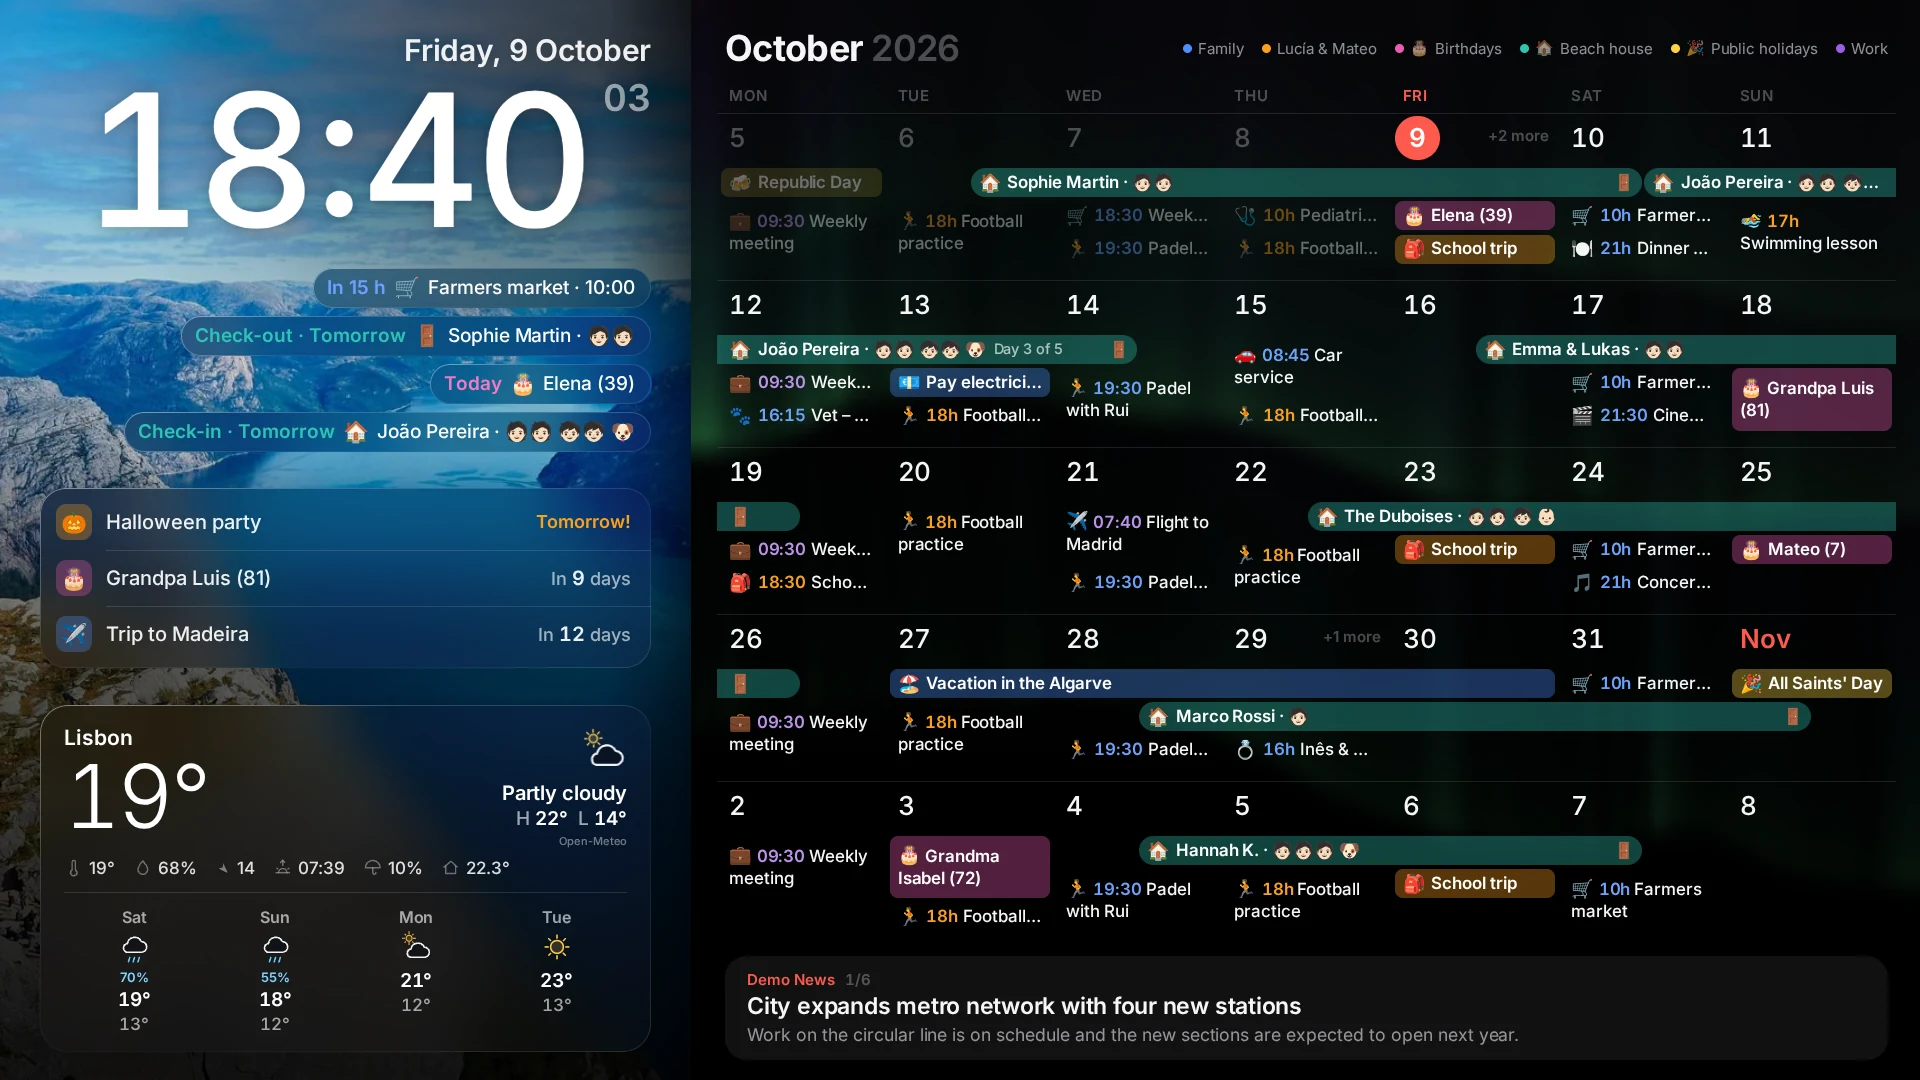
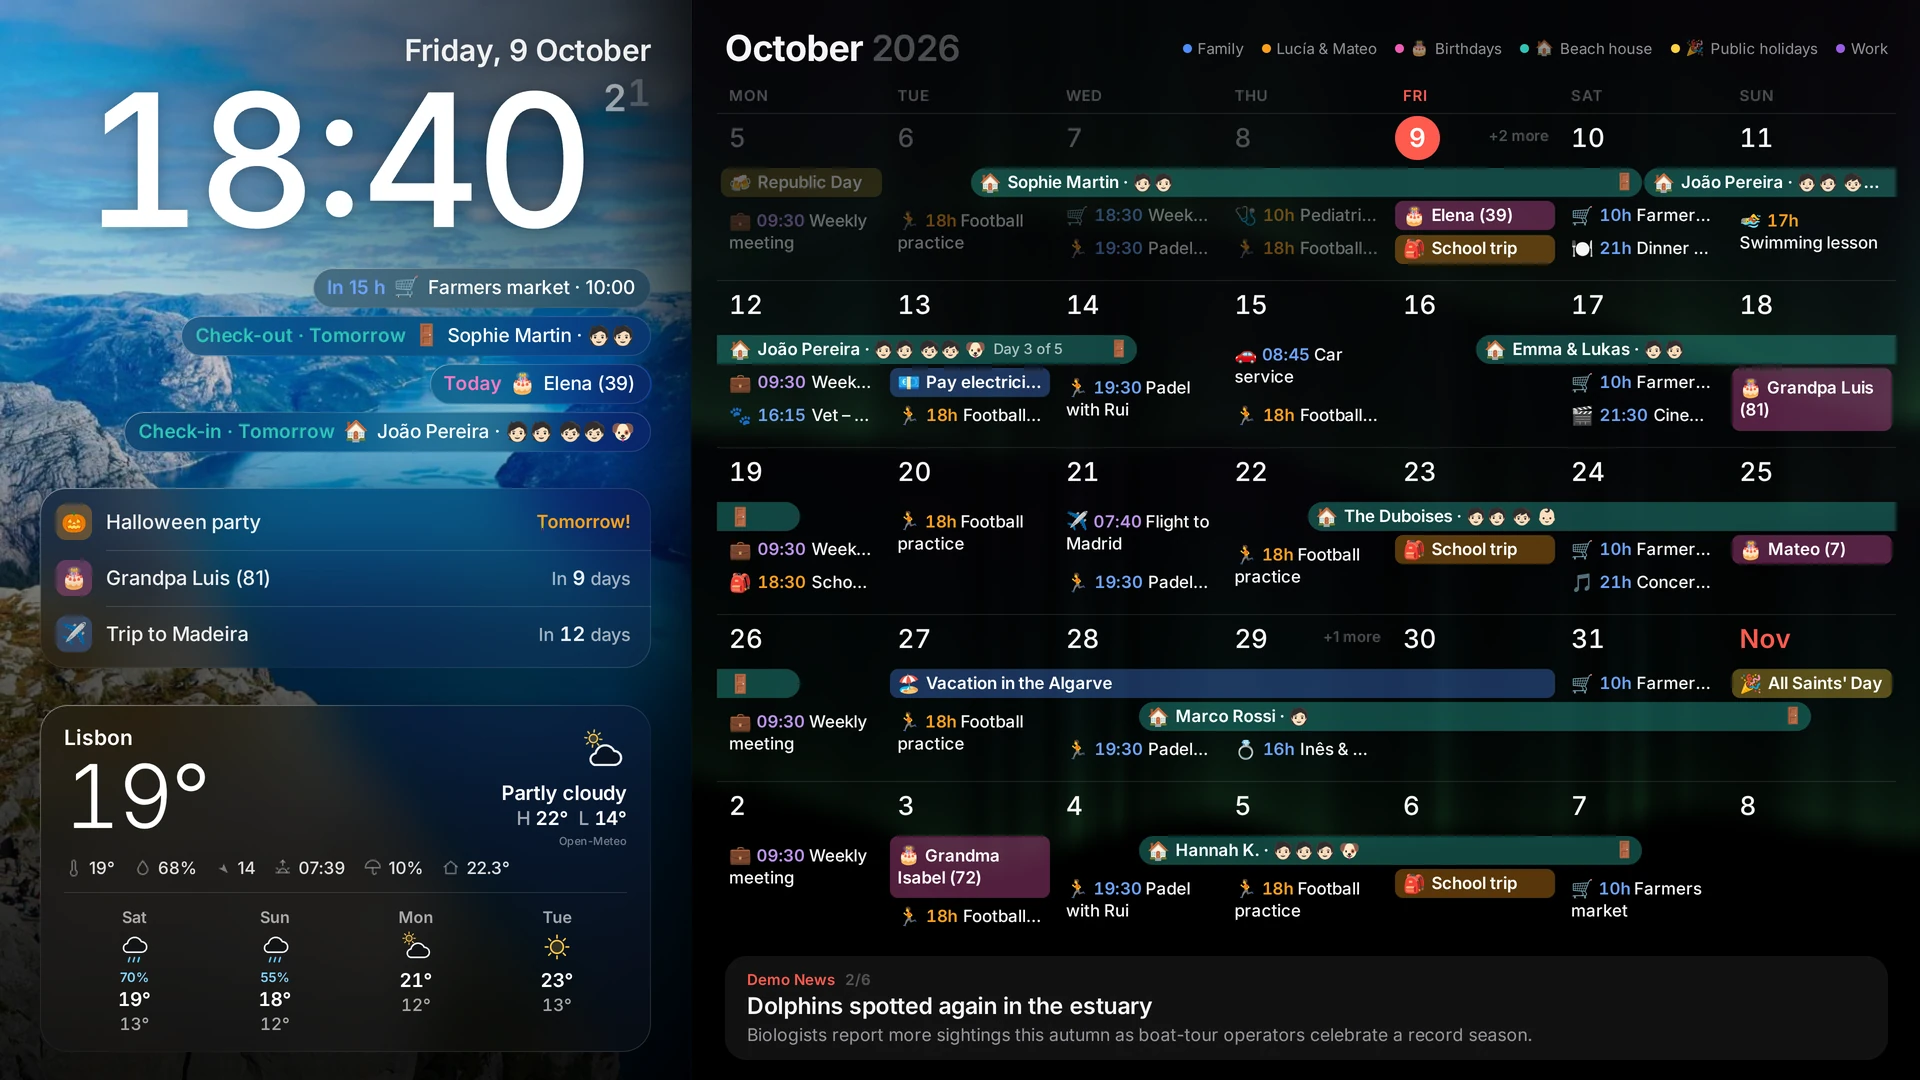
Release 0.5.1: new demo video in the Modern style

diff --git a/README.es.md b/README.es.md
@@ -299,7 +299,7 @@ inicio de sesión automático en el escritorio (modos con pantalla) o como un us
 
 ```
 ~/marco/                  (o /opt/marco)
-├── current -> releases/0.5.0   la versión en marcha, se cambia en un solo paso al actualizar
+├── current -> releases/0.5.1   la versión en marcha, se cambia en un solo paso al actualizar
 ├── releases/                   la versión actual y la anterior (para volver atrás)
 ├── data/                       configuración, secretos, fotos, copias (se conservan al actualizar y desinstalar)
 └── .env                        puerto y otros ajustes, consulta .env.example
@@ -486,10 +486,11 @@ carpeta `data/` real nunca se toca.
 `/?demo=1` (añade `&lang=es`, `&preset=agenda`, `&theme=light`, `&style=modern`, `&announce=success`, `&sched=1`,
 `&now=2026-10-09T10:42`, `&wx=rain|snow|clear` con `&wxfx=rich` para ver el efecto del tiempo, `&pair=1` para la pantalla de vinculación).
 
-**Vídeo de demostración.** Un recorrido de 48 segundos por la demo: la pantalla del salón con transiciones de fotos,
-un aviso y un mensaje programado, las pantallas de la cocina y vertical, y la vinculación de una pantalla nueva.
+**Vídeo de demostración.** Un recorrido de un minuto en el estilo Moderno: la vista de mes, un aviso enviado desde el
+móvil, los diseños Hoy y tablero, el marco de fotos, los estilos Clásico y cristal, los efectos del tiempo, una
+pantalla vertical, el panel (diseños, calendarios, galería) y el reloj tenue de noche para el dormitorio.
 
-[![Vídeo de demostración: la pantalla del salón a las 20:00 con el mensaje programado "Take out the bins"](docs/media/poster.webp)](https://github.com/mr-reb00t/marco/releases/download/media/marco-demo.mp4)
+[![Vídeo de demostración: la pantalla del salón en estilo Moderno con el calendario del mes, el tiempo y los próximos eventos](docs/media/poster.webp)](https://github.com/mr-reb00t/marco/releases/download/media/marco-demo.mp4)
 
 ## Enlaces privados y vinculación de pantallas
 

diff --git a/README.md b/README.md
@@ -282,7 +282,7 @@ with a screen) or as a new `marco` system user (server only).
 
 ```
 ~/marco/                  (or /opt/marco)
-├── current -> releases/0.5.0   the running version, switched in one step on update
+├── current -> releases/0.5.1   the running version, switched in one step on update
 ├── releases/                   the current version and the previous one (for rollback)
 ├── data/                       config, secrets, photos, backups (kept on update and uninstall)
 └── .env                        port and other settings, see .env.example
@@ -461,10 +461,11 @@ Just want to see the display? Any running instance shows a built-in sample datas
 (add `&lang=es`, `&preset=agenda`, `&theme=light`, `&style=modern`, `&announce=success`, `&sched=1`, `&now=2026-10-09T10:42`,
 `&wx=rain|snow|clear` with `&wxfx=rich` to see the weather effect, `&pair=1` for the pairing screen).
 
-**Demo video.** A 48-second tour of the demo: the living room screen with photo transitions, an alert and a scheduled
-message, the kitchen and portrait screens, and pairing a new screen.
+**Demo video.** A one-minute tour in the Modern style: the month view, an alert sent from a phone, the Today and
+board layouts, the photo frame, Classic and glass styles, live weather effects, a portrait screen, the admin
+(layouts, calendars, gallery) and the dim bedside clock at night.
 
-[![Demo video: the living room screen at 20:00 with the "Take out the bins" scheduled message](docs/media/poster.webp)](https://github.com/mr-reb00t/marco/releases/download/media/marco-demo.mp4)
+[![Demo video: the living room screen in the Modern style with the month calendar, weather and upcoming events](docs/media/poster.webp)](https://github.com/mr-reb00t/marco/releases/download/media/marco-demo.mp4)
 
 ## Private display links & pairing
 

diff --git a/CHANGELOG.md b/CHANGELOG.md
@@ -5,6 +5,8 @@ All notable changes to this project are documented here. The format is based on
 
 ## [Unreleased]
 
+## [0.5.1] - 2026-10-10
+
 ### Added
 - **Apple iCloud calendars**: *Calendars → Linked accounts → Link account* now offers Apple iCloud. It opens a short
   guide (iPhone or iPad, Mac, iCloud.com) to get the calendar's public link, then tests the link and adds it as an
@@ -20,6 +22,8 @@ All notable changes to this project are documented here. The format is based on
   `?rotate=0` turn them off for a test, and `?demo=1&busy=1` adds a busy day and long titles to the demo.
 
 ### Changed
+- New demo video and README animation in the Modern style, with no flicker: layouts, an alert from a phone, weather
+  effects, a portrait screen, the admin and the night clock.
 - **Sign in with Google is off on self-hosted servers** by default: the admin uses the server's password, and Google
   is for calendars. `MARCO_GOOGLE_LOGIN=1` turns it on; servers that already sign in with Google only (password off,
   allowed emails set) keep it.
